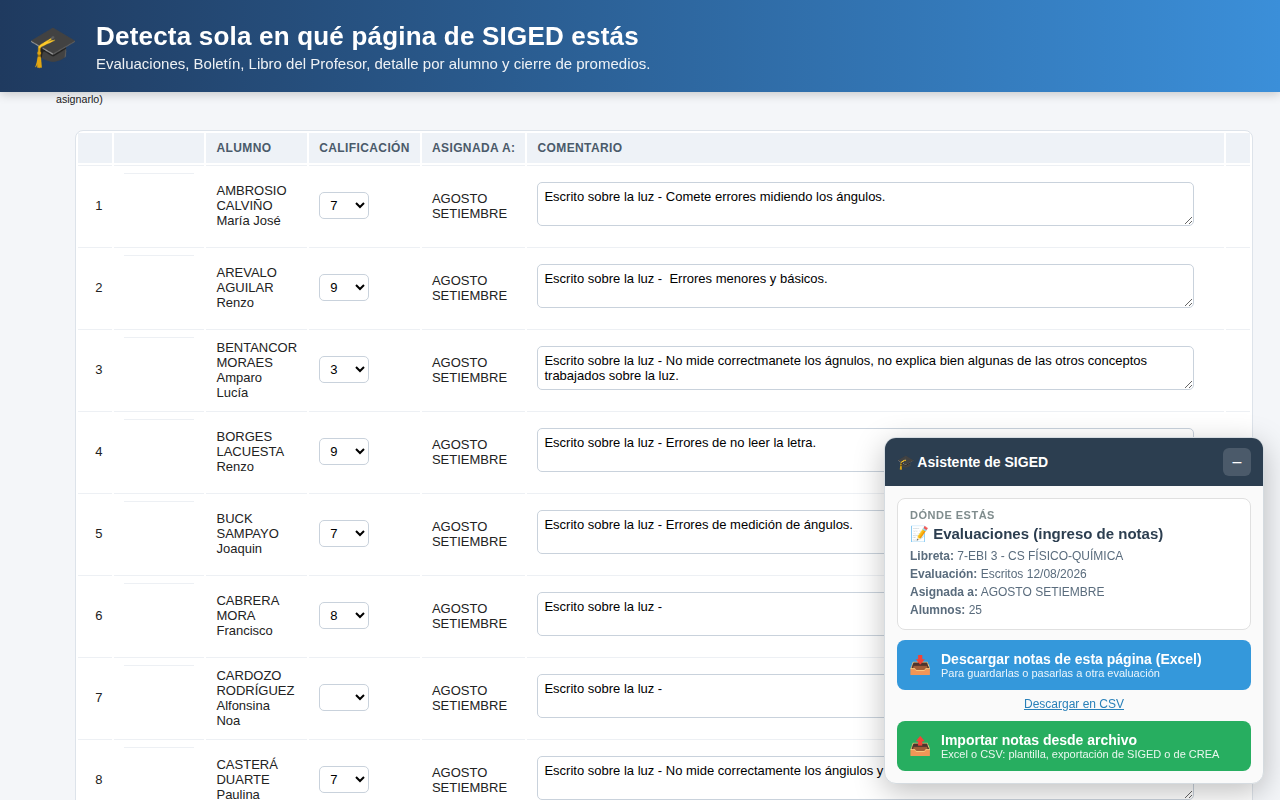
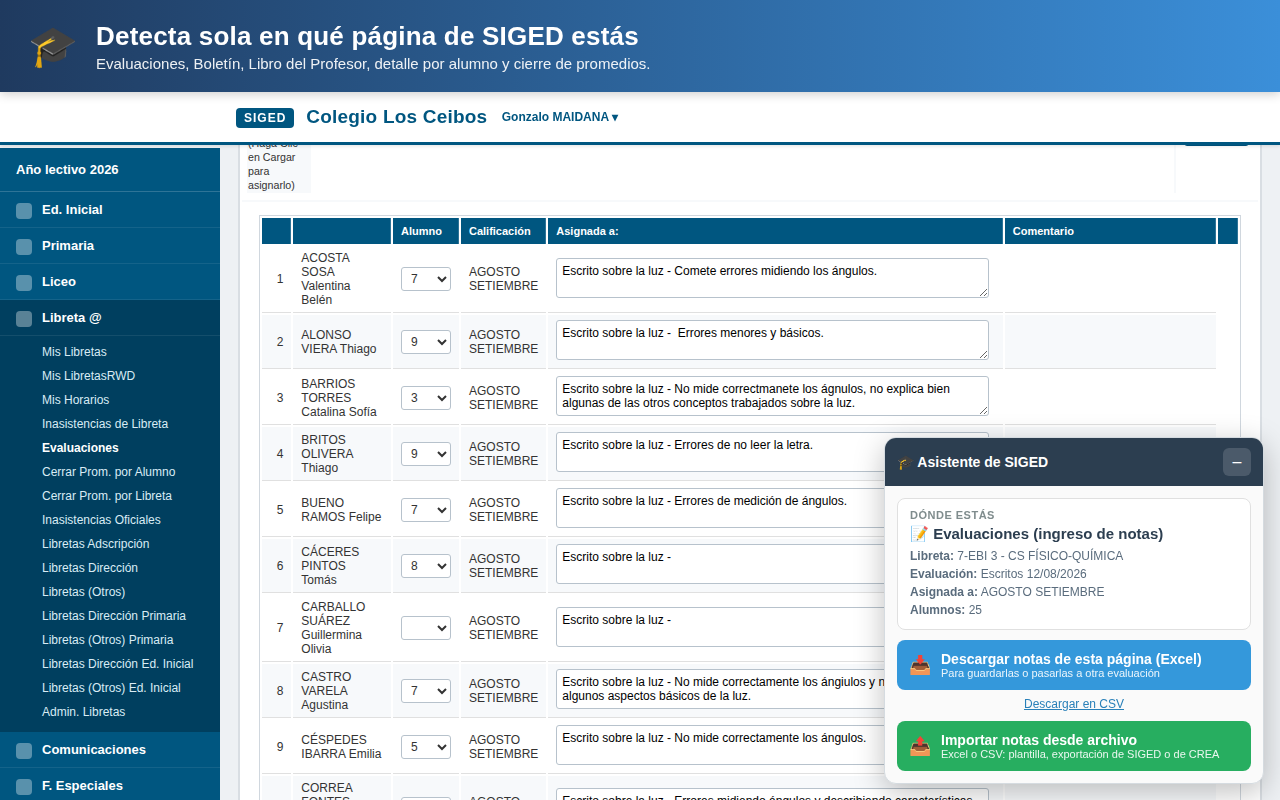
Capturas para la tienda con estética de SIGED y nombres ficticios
- Las capturas reproducen el menú lateral, el encabezado y las grillas
  de SIGED con sus colores (#005680, #000080, #ffffc0).
- Alumnos, docentes e institución reemplazados por nombres ficticios
  coherentes en todas las páginas; el archivo de ejemplo importado
  también usa esos nombres.

Claude-Session: https://claude.ai/code/session_01TXMbKy1HbzAWnQcxs5ydMq

Changed region(s): [[0.0, 0.125, 1.0, 1.0], [0.3125, 0.75, 0.5312, 0.8125]]

diff --git a/store/LEEME.md b/store/LEEME.md
@@ -12,5 +12,6 @@ Archivos listos para subir en el panel de desarrollador de la Chrome Web Store
 
 El ícono que usa la extensión dentro del navegador sigue siendo `icon16.png`, `icon48.png` e `icon128.png` en la raíz del proyecto.
 
-Para regenerar las imágenes se usan las páginas de SIGED guardadas con la extensión cargada en Chromium;
-las capturas llevan una banda superior con el texto de cada función.
+Las capturas reproducen la estética de SIGED (menú lateral y encabezados en azul #005680, resaltados en #ffffc0)
+sobre páginas reales guardadas, con **nombres ficticios** de alumnos, docentes e institución ("Colegio Los Ceibos").
+Llevan una banda superior con el texto de cada función.
